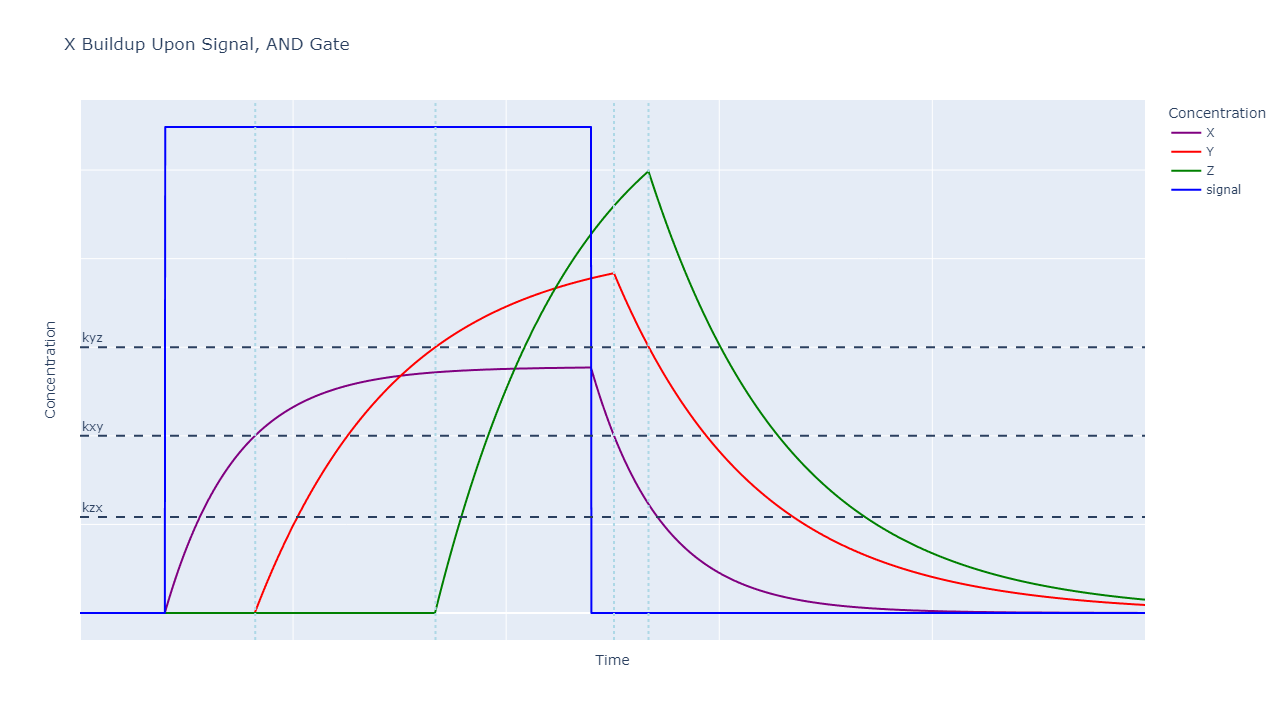
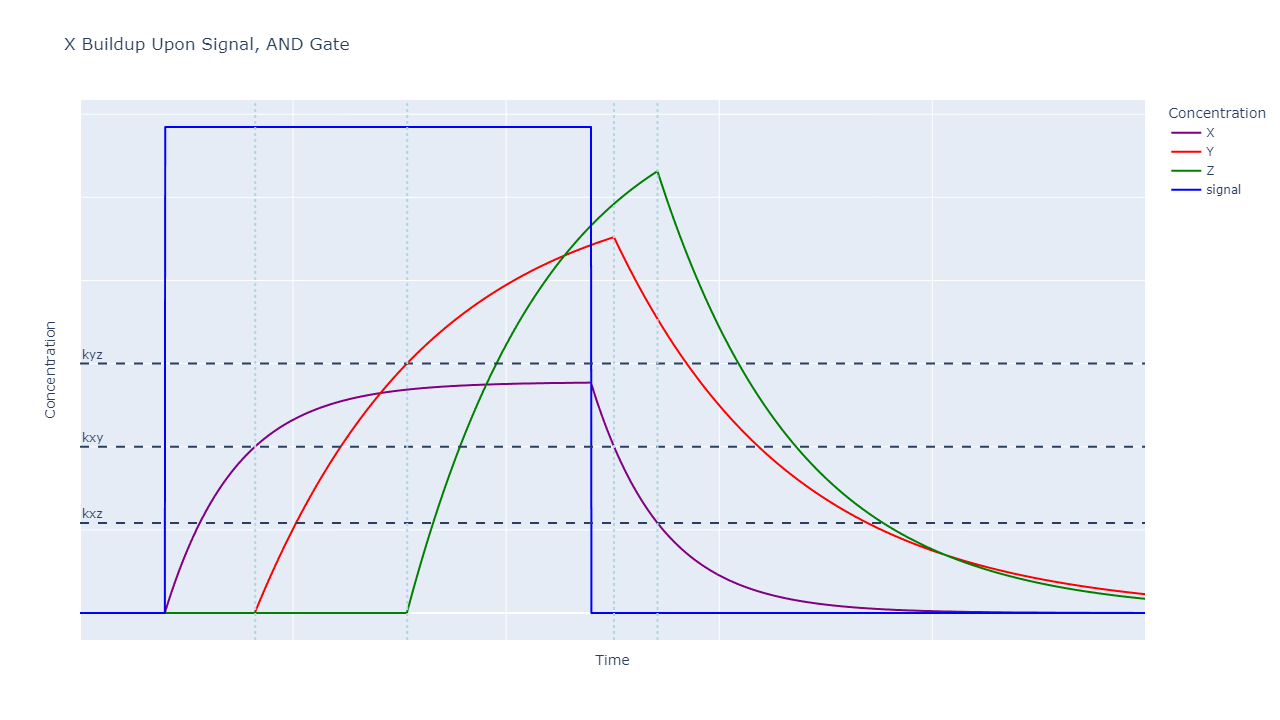
typo + lyx

diff --git a/ex2/q1.py b/ex2/q1.py
@@ -201,7 +201,7 @@ def q4b(kyz, kxy, kxz, x_max_rate, x_deg_rate, y_max_rate, y_deg_rate, z_max_rat
     z = _create_reg_data_series(z_prod_time_vals, z_max_rate, z_deg_rate, dt)
     hlines = [dict(y=kyz, line_dash="dash", annotation_text="kyz", annotation_position="top left"),
               dict(y=kxy, line_dash="dash", annotation_text="kxy", annotation_position="top left"),
-              dict(y=kxz, line_dash="dash", annotation_text="kzx", annotation_position="top left")]
+              dict(y=kxz, line_dash="dash", annotation_text="kxz", annotation_position="top left")]
     vlines = [dict(x=np.where(y == 0., np.inf, y).argmin(), line_dash="dot"),
               dict(x=np.where(z == 0., np.inf, z).argmin(), line_dash="dot"),
               dict(x=y.argmax(), line_dash="dot"),
@@ -241,7 +241,7 @@ def q4d(kyz, kxy, kxz, x_max_rate, x_deg_rate, y_max_rate, y_deg_rate, z_max_rat
     y_changes = ((y_prd_time ^ np.roll(y_prd_time, 1))[1:-1]).nonzero()[0]
     hlines = [dict(y=kyz, line_dash="dash", annotation_text="kyz", annotation_position="top left"),
               dict(y=kxy, line_dash="dash", annotation_text="kxy", annotation_position="top left"),
-              dict(y=kxz, line_dash="dash", annotation_text="kzx", annotation_position="top left")]
+              dict(y=kxz, line_dash="dash", annotation_text="kxz", annotation_position="top left")]
     vlines = [dict(x=change, line_dash="dot") for change in np.hstack((z_changes, y_changes))]
     signal = np.where(signal_time_vals, np.max(np.hstack((x, y, z))) * 1.1, 0.)
     data = pd.DataFrame(np.vstack((x, y, z, signal)).T, columns=["X", "Y", "Z", "signal"])
@@ -263,7 +263,7 @@ def q4e(kyz, kxy, kxz, x_max_rate, x_deg_rate, hill_coef, kd, y_max_rate, y_deg_
     y_changes = ((y_prd_time ^ np.roll(y_prd_time, 1))[1:-1]).nonzero()[0]
     hlines = [dict(y=kyz, line_dash="dash", annotation_text="kyz", annotation_position="top left"),
               dict(y=kxy, line_dash="dash", annotation_text="kxy", annotation_position="top left"),
-              dict(y=kxz, line_dash="dash", annotation_text="kzx", annotation_position="top left")]
+              dict(y=kxz, line_dash="dash", annotation_text="kxz", annotation_position="top left")]
     vlines = [dict(x=change, line_dash="dot") for change in np.hstack((z_changes, y_changes))]
     signal = np.where(signal_time_vals, np.max(np.hstack((x, y, z))) * 1.1, 0.)
     data = pd.DataFrame(np.vstack((x, y, z, signal)).T, columns=["X", "Y", "Z", "signal"])
@@ -279,11 +279,11 @@ if __name__ == "__main__":
     kyz_4a = 0.5
     kxy_4b = 0.4
     kxz_4b = 0.65
-    q1a(kd, hill_coef, max_rate, degradation_rate)
-    q1b(kd, max_rate, degradation_rate)
-    q4a(kyz_4a, max_rate, degradation_rate, max_rate, degradation_rate, 0.2, 1.2, TOTAL_TIME, DT)
-    q4b(kyz_4a * 1.2, kxy_4b, kxz_4b / 3, max_rate / 1.5, degradation_rate * 2, max_rate / 2, degradation_rate, max_rate/ 1.3, degradation_rate, 0.2, 1.2, TOTAL_TIME, DT)
-    q4c(kyz_4a, max_rate, degradation_rate * 1.5, max_rate, degradation_rate, 0.2, 1.2, TOTAL_TIME, DT)
-    q4d(kyz_4a / 2, kxy_4b / 4, kxz_4b - 0.2, max_rate / 1.5, degradation_rate * 2, max_rate, degradation_rate * 1.5, max_rate, degradation_rate, 0.2, 1.2, TOTAL_TIME, DT)
-    q4e(kyz_4a, kxy_4b, kxz_4b, max_rate * 1.5, degradation_rate * 2, hill_coef, kd, max_rate / 1.5, degradation_rate,
-        max_rate / 3, degradation_rate, 0.2, 1.2, TOTAL_TIME, DT)
+    # q1a(kd, hill_coef, max_rate, degradation_rate)
+    # q1b(kd, max_rate, degradation_rate)
+    # q4a(kyz_4a, max_rate, degradation_rate, max_rate, degradation_rate, 0.2, 1.2, TOTAL_TIME, DT)
+    q4b(kyz_4a * 1.2, kxy_4b, kxz_4b / 3, max_rate / 1.5, degradation_rate * 2, max_rate / 2, degradation_rate * 0.8, max_rate/ 1.3, degradation_rate, 0.2, 1.2, TOTAL_TIME, DT)
+    # q4c(kyz_4a, max_rate, degradation_rate * 1.5, max_rate, degradation_rate, 0.2, 1.2, TOTAL_TIME, DT)
+    # q4d(kyz_4a / 2, kxy_4b / 4, kxz_4b - 0.2, max_rate / 1.5, degradation_rate * 2, max_rate, degradation_rate * 1.5, max_rate, degradation_rate, 0.2, 1.2, TOTAL_TIME, DT)
+    # q4e(kyz_4a, kxy_4b, kxz_4b, max_rate * 1.5, degradation_rate * 2, hill_coef, kd, max_rate / 1.5, degradation_rate,
+    #     max_rate / 3, degradation_rate, 0.2, 1.2, TOTAL_TIME, DT)
